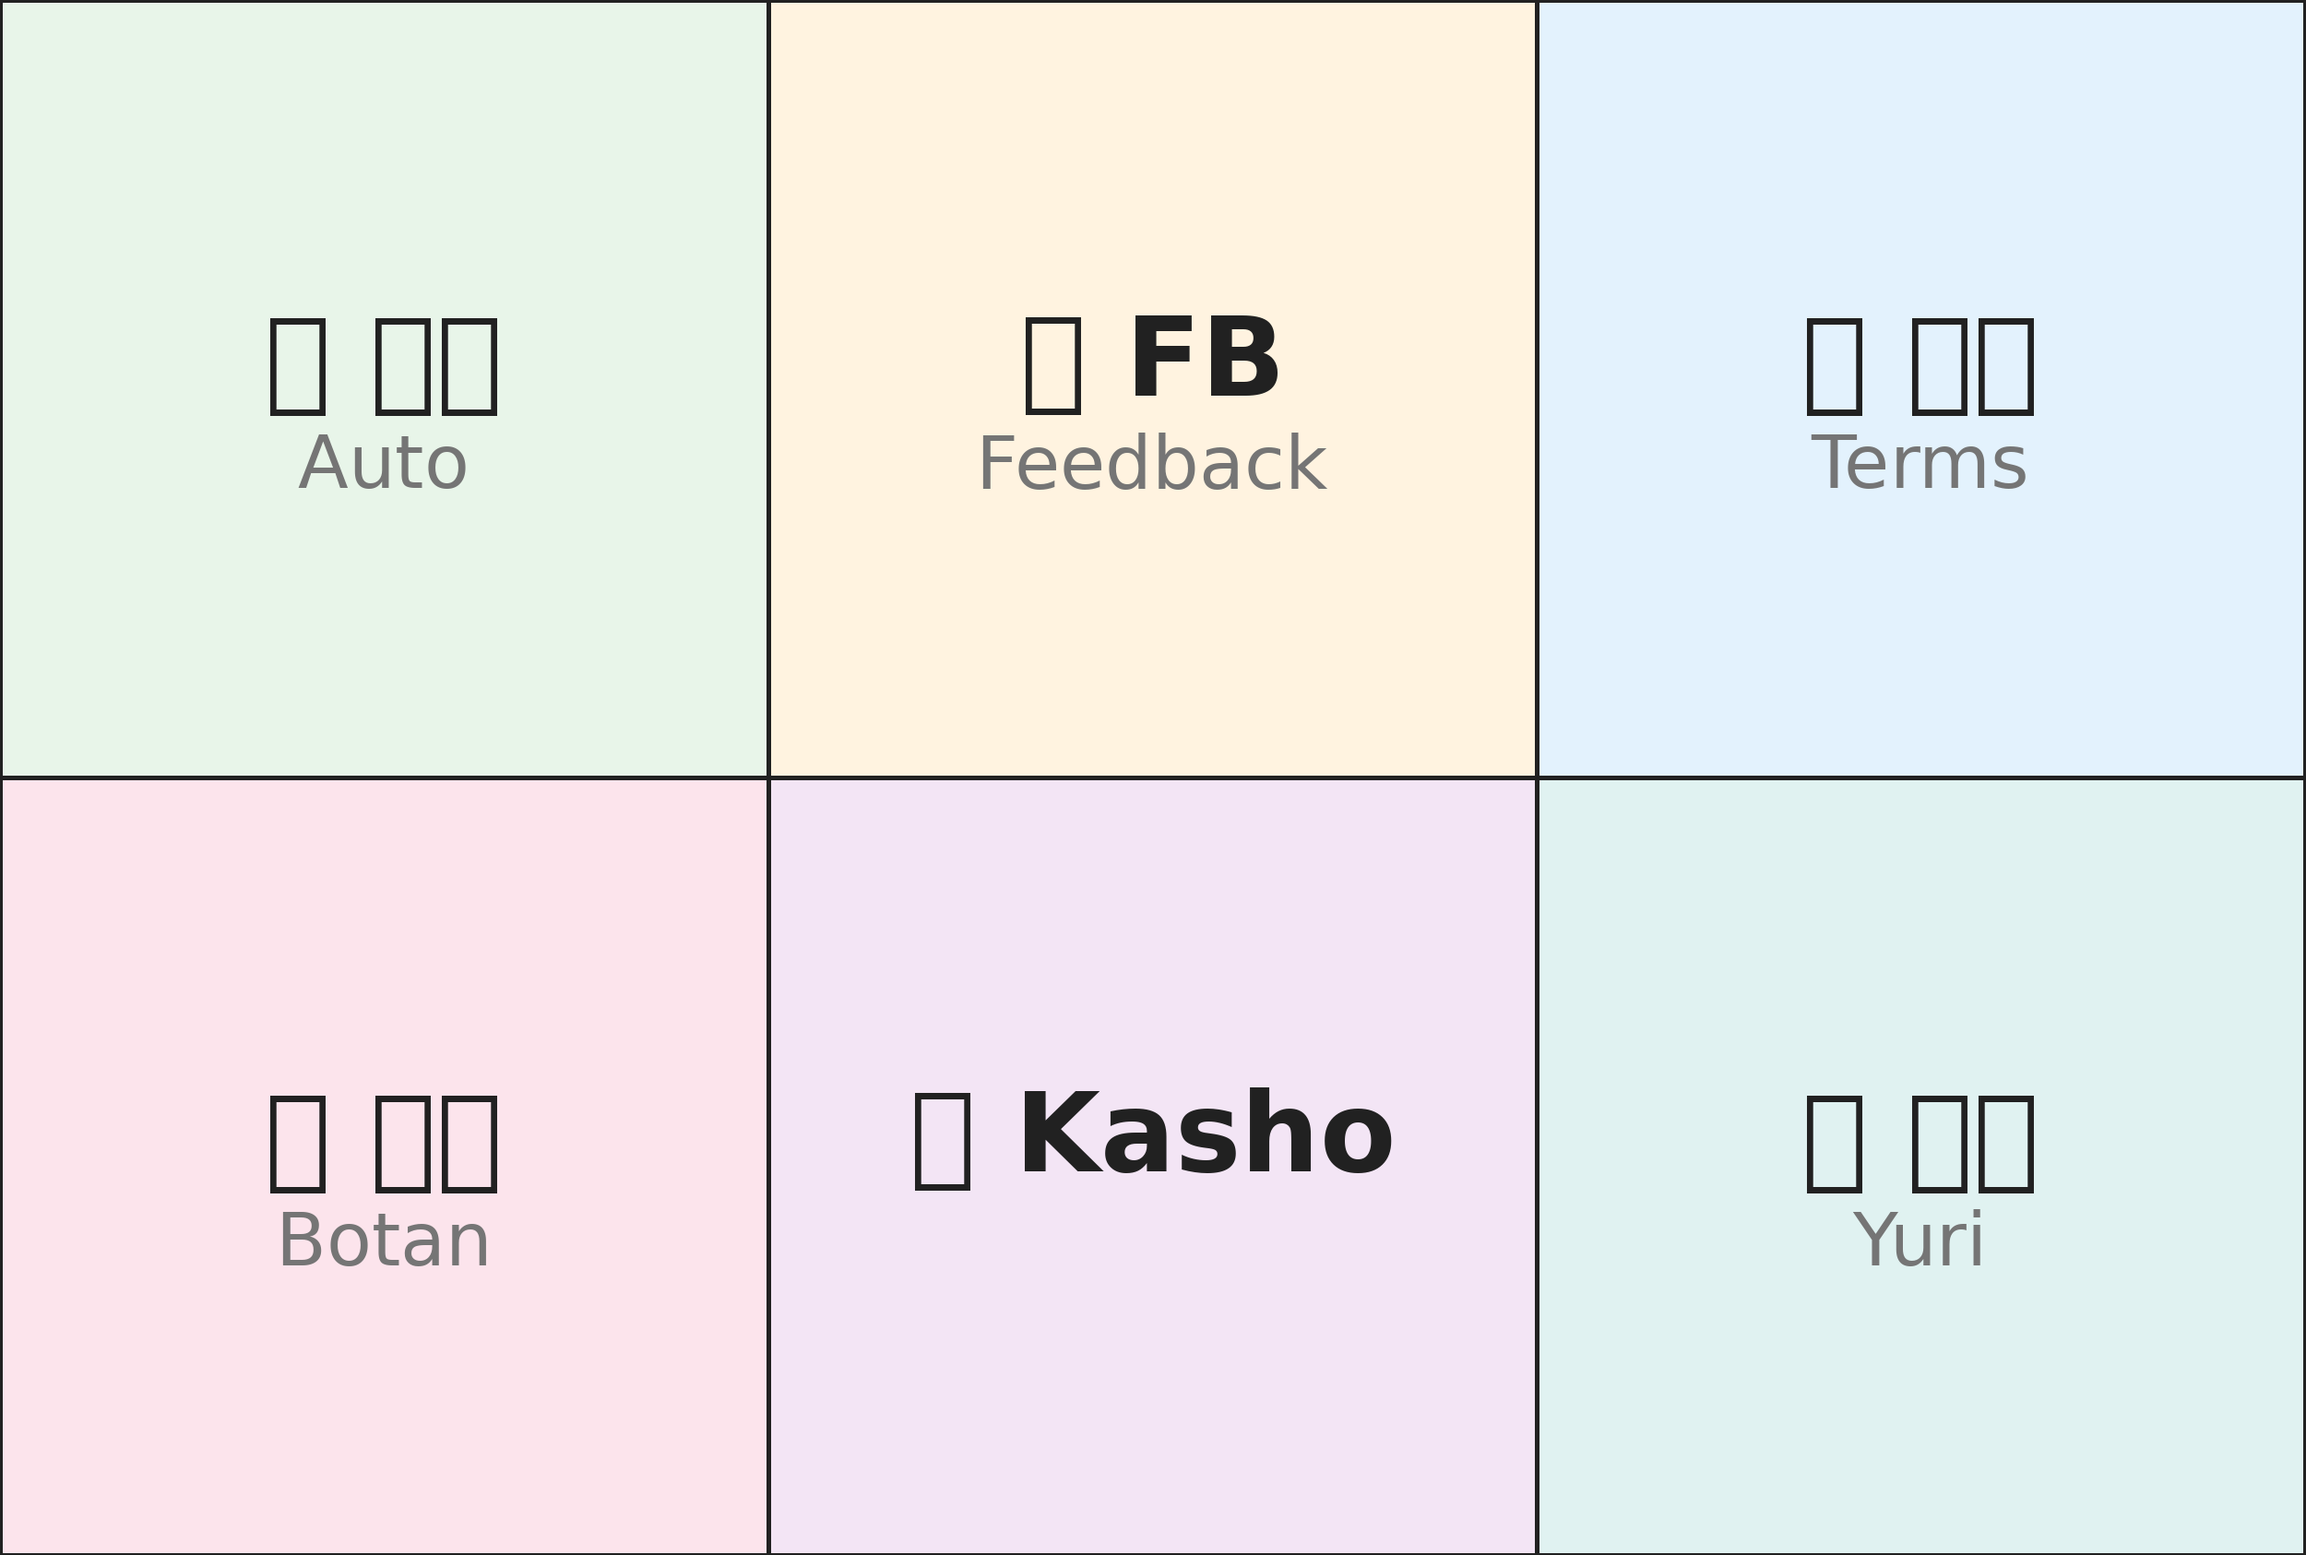
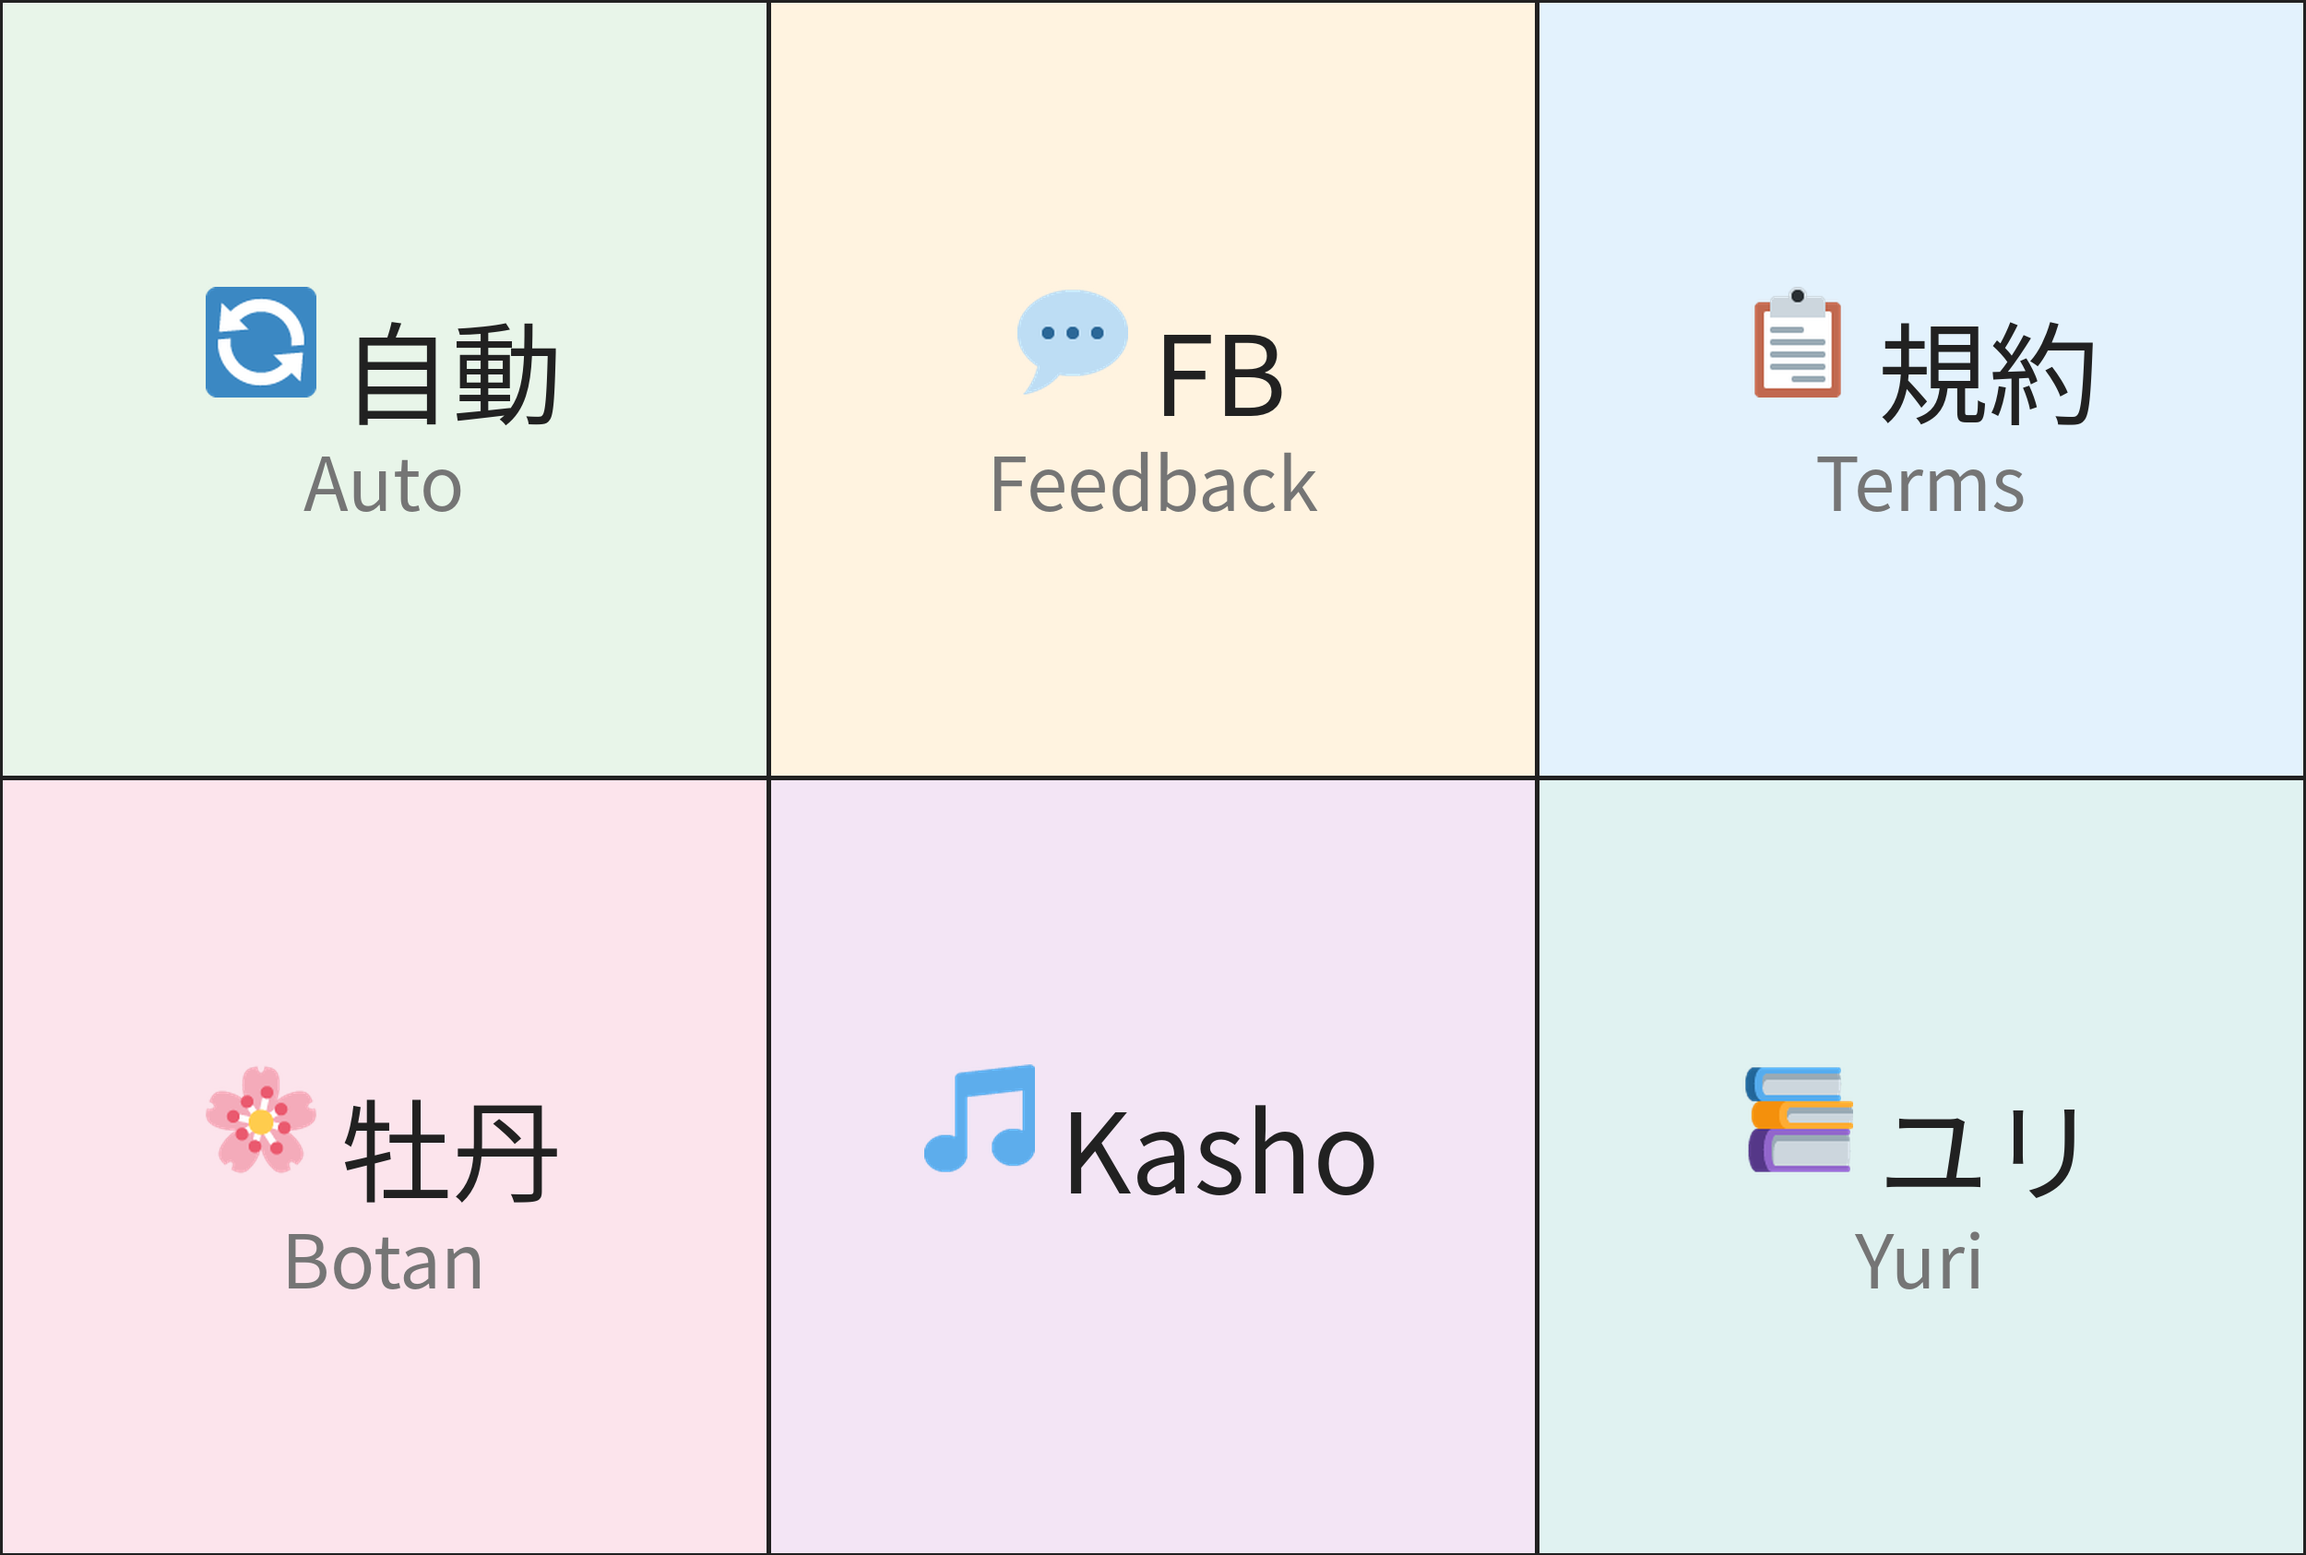
fix: リッチメニュー絵文字表示と自動キャラクター選択の修正
- リッチメニュー画像生成で日本語フォント（NotoSansCJKjp）に対応
- pilmojiライブラリを使用して絵文字を正しく表示
- 自動キャラクター選択のdefault_scoreを3→1に変更し、スコアリングを改善
- Kashoのキーワードに「ロック」「ポップ」「ジャズ」等を追加
- ユリの表示名を「百合（Yuri）」→「ユリ（Yuri）」に統一

修正内容:
- scripts/create_richmenu_image.py: DejaVuSans→NotoSansCJKjp、pilmoji対応
- src/line_bot_vps/auto_character_selector.py: スコアリングロジック改善
- src/line_bot_vps/webhook_server_vps.py: ユリの表示名修正
- src/line_bot_vps/profile_flex_message.py: ユリの名前修正
- assets/richmenu_auto_mode.png: 絵文字対応の新画像

🤖 Generated with [Claude Code](https://claude.com/claude-code)

diff --git a/src/line_bot_vps/auto_character_selector.py b/src/line_bot_vps/auto_character_selector.py
@@ -21,7 +21,7 @@ CHARACTER_KEYWORDS = {
             "アイドル", "エンタメ", "芸能", "ドラマ", "映画",
             "音ゲー", "ゲーム実況", "apexlegends", "valorant", "minecraft"
         ],
-        "default_score": 3
+        "default_score": 1
     },
     "kasho": {
         # 音楽・オーディオ
@@ -29,9 +29,10 @@ CHARACTER_KEYWORDS = {
             "音楽", "ライブ", "コンサート", "フェス", "バンド",
             "アーティスト", "楽器", "ギター", "ピアノ", "ボイトレ",
             "イヤホン", "ヘッドホン", "dap", "オーディオ", "音質",
-            "モニター", "宅録", "dtm", "作曲", "編曲"
+            "モニター", "宅録", "dtm", "作曲", "編曲",
+            "ロック", "ポップ", "ジャズ", "クラシック", "歌"
         ],
-        "default_score": 3
+        "default_score": 1
     },
     "yuri": {
         # サブカル・アニメ・ライトノベル
@@ -41,7 +42,7 @@ CHARACTER_KEYWORDS = {
             "異世界", "転生", "悪役令嬢", "なろう系", "ファンタジー",
             "sf", "ミステリー", "推理", "恋愛", "学園"
         ],
-        "default_score": 3
+        "default_score": 1
     }
 }
 

diff --git a/src/line_bot_vps/webhook_server_vps.py b/src/line_bot_vps/webhook_server_vps.py
@@ -146,7 +146,7 @@ CHARACTERS = {
     },
     "yuri": {
         "name": "ユリ",
-        "display_name": "百合（Yuri）",
+        "display_name": "ユリ（Yuri）",
         "age": 15,
         "icon_url": f"{NGROK_URL}/assets/yuri.png"
     }

diff --git a/src/line_bot_vps/profile_flex_message.py b/src/line_bot_vps/profile_flex_message.py
@@ -40,7 +40,7 @@ PROFILES = {
         "color": "#9370DB"  # 紫
     },
     "yuri": {
-        "name": "百合",
+        "name": "ユリ",
         "name_en": "Yuri",
         "age": 15,
         "birthday": "7月7日",
